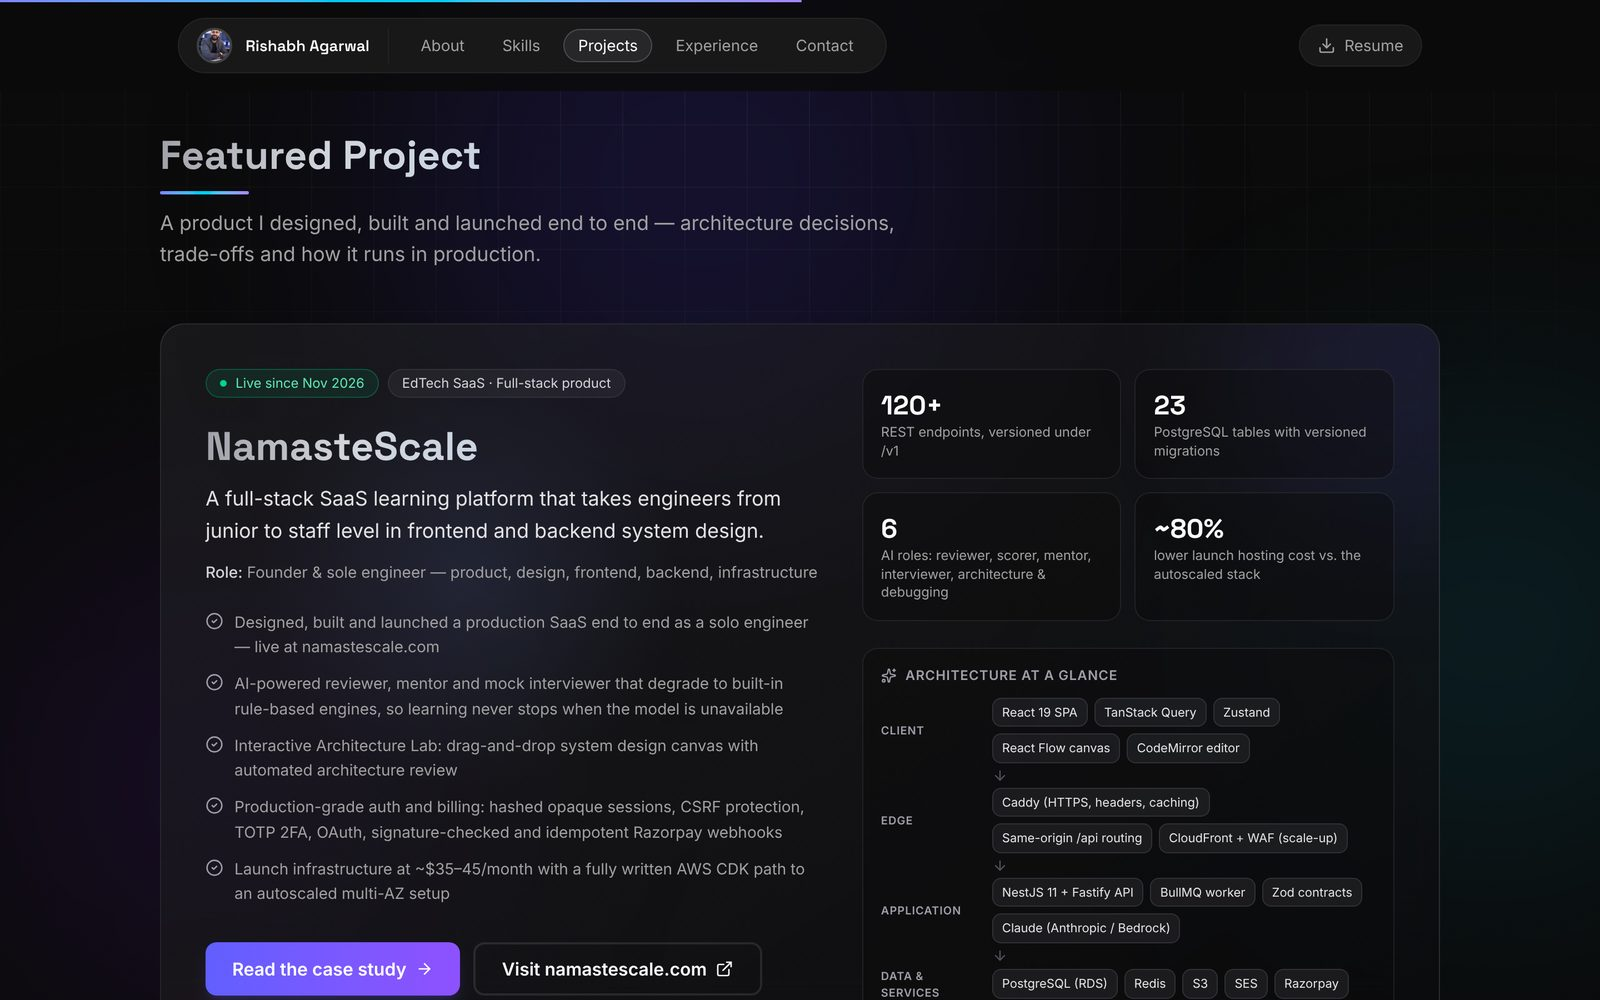
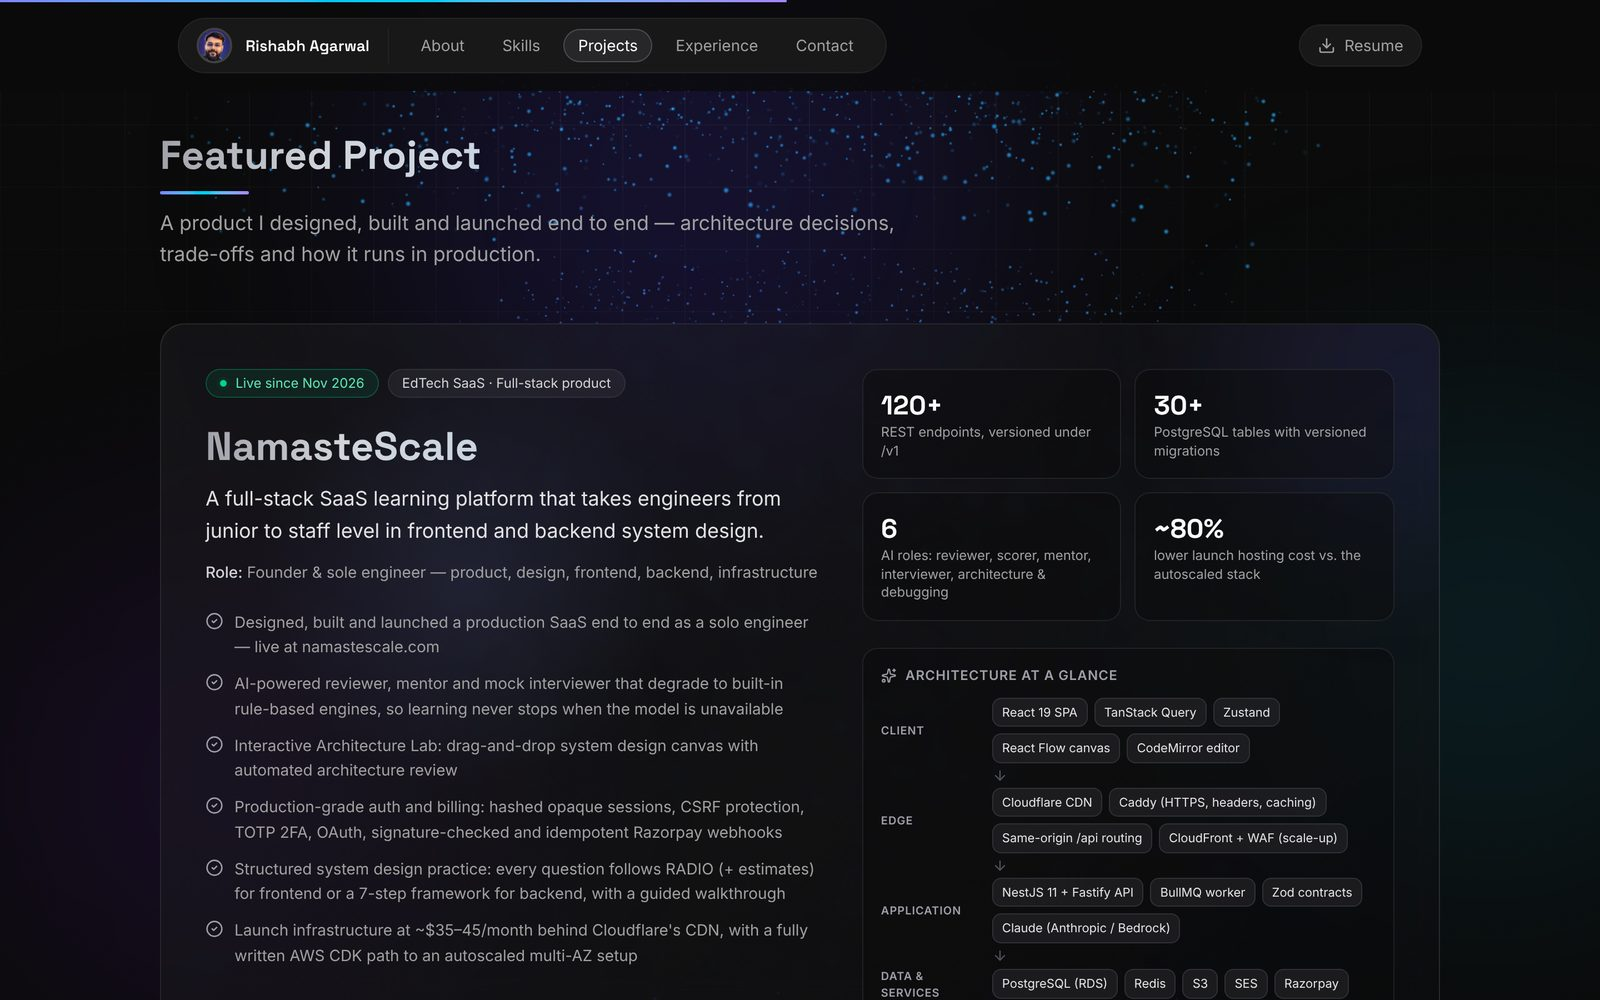
Retouched portrait and NamasteScale details from the current codebase
- New brand-graded portrait (cutout on indigo/cyan network backdrop, rim light,
  desk surface, vignette) at 400/800w, plus a dedicated face-crop nav avatar
- OG image regenerated with the new portrait; README screenshots refreshed
- NamasteScale: Cloudflare CDN, Google/GitHub OIDC login, one device per account,
  RADIO / 7-step system design framework, 30+ tables, Vitest, GitHub Actions,
  webhook-activated checkout; team dashboard removed from roadmap; YouTube link
- Skills aligned with the stack NamasteScale uses (new Backend & Data category)

Claude-Session: https://claude.ai/code/session_012ipjrg5hndmspzufutvoju

diff --git a/src/data/data.ts b/src/data/data.ts
@@ -43,6 +43,7 @@ export interface CaseStudy {
     solutionsImplemented: string[];
     impactMetrics: string[];
     demoLink?: string;
+    youtubeLink?: string;
     repoLink?: string;
     packageLink?: string;
 }
@@ -79,14 +80,18 @@ export const caseStudies: CaseStudy[] = [
             "Redis + BullMQ",
             "Zod (shared contracts)",
             "Claude (Anthropic API / Bedrock)",
+            "OAuth / OIDC (Google, GitHub)",
             "Razorpay",
             "AWS (EC2, RDS, S3, SES, CDK)",
+            "Cloudflare CDN",
             "Docker + Caddy",
+            "Vitest",
+            "GitHub Actions",
         ],
 
         highlights: [
             { value: "120+", label: "REST endpoints, versioned under /v1" },
-            { value: "23", label: "PostgreSQL tables with versioned migrations" },
+            { value: "30+", label: "PostgreSQL tables with versioned migrations" },
             { value: "6", label: "AI roles: reviewer, scorer, mentor, interviewer, architecture & debugging" },
             { value: "~80%", label: "lower launch hosting cost vs. the autoscaled stack" },
         ],
@@ -96,7 +101,8 @@ export const caseStudies: CaseStudy[] = [
             "AI-powered reviewer, mentor and mock interviewer that degrade to built-in rule-based engines, so learning never stops when the model is unavailable",
             "Interactive Architecture Lab: drag-and-drop system design canvas with automated architecture review",
             "Production-grade auth and billing: hashed opaque sessions, CSRF protection, TOTP 2FA, OAuth, signature-checked and idempotent Razorpay webhooks",
-            "Launch infrastructure at ~$35–45/month with a fully written AWS CDK path to an autoscaled multi-AZ setup",
+            "Structured system design practice: every question follows RADIO (+ estimates) for frontend or a 7-step framework for backend, with a guided walkthrough",
+            "Launch infrastructure at ~$35–45/month behind Cloudflare's CDN, with a fully written AWS CDK path to an autoscaled multi-AZ setup",
         ],
 
         shortDescription:
@@ -113,7 +119,7 @@ export const caseStudies: CaseStudy[] = [
 
         architecture: [
             { label: "Client", items: ["React 19 SPA", "TanStack Query", "Zustand", "React Flow canvas", "CodeMirror editor"] },
-            { label: "Edge", items: ["Caddy (HTTPS, headers, caching)", "Same-origin /api routing", "CloudFront + WAF (scale-up)"] },
+            { label: "Edge", items: ["Cloudflare CDN", "Caddy (HTTPS, headers, caching)", "Same-origin /api routing", "CloudFront + WAF (scale-up)"] },
             { label: "Application", items: ["NestJS 11 + Fastify API", "BullMQ worker", "Zod contracts", "Claude (Anthropic / Bedrock)"] },
             { label: "Data & services", items: ["PostgreSQL (RDS)", "Redis", "S3", "SES", "Razorpay"] },
         ],
@@ -122,7 +128,7 @@ export const caseStudies: CaseStudy[] = [
             "Making AI feedback reliable and affordable: per-user rate limits, plan-based allowances and model tiers, and structured outputs that the UI can render safely",
             "Keeping the product usable when a dependency is missing — no model, no payment keys, no email provider — without branching the UI everywhere",
             "Sharing one set of validation schemas, plans and prices between two repositories without drift",
-            "Building secure, first-party authentication (sessions, CSRF, 2FA, OAuth) without a third-party auth service",
+            "Building secure, first-party authentication (sessions, CSRF, 2FA, Google/GitHub OAuth, one active device per account) without a third-party auth service",
             "Handling payments correctly: verifying checkout signatures, processing webhooks exactly once, and applying the single best discount across sales, coupons and referrals",
             "Shipping on a tight launch date while still leaving a clean path from one server to an autoscaled cloud setup",
         ],
@@ -131,6 +137,7 @@ export const caseStudies: CaseStudy[] = [
             "Server state cached and deduplicated with TanStack Query; client state read through narrow Zustand selectors to avoid unnecessary re-renders",
             "React Compiler enabled for automatic memoization across the app",
             "Sessions hashed in PostgreSQL and cached in Redis, so authenticated requests don't hit the database on every call",
+            "Static assets served from Cloudflare's edge cache worldwide; the origin trusts only Cloudflare's IP ranges and reads the real visitor IP",
             "Slow work (emails, image processing, invoices, AI jobs) moved off the request path into a BullMQ worker",
             "Hashed static assets cached for a year at the edge, with index.html revalidated on every deploy",
             "Cheaper, faster model tier on Free and the advanced tier on Pro, chosen per request by the plan service",
@@ -144,6 +151,8 @@ export const caseStudies: CaseStudy[] = [
             "Unhealthy release on the scale-up stack → ECS deployment circuit breaker rolls back automatically",
             "Misconfigured environment → every variable is validated at startup and the process refuses to start with a list of what's missing",
             "Guest progress at sign-in → uploaded once and its XP recomputed on the server, so clients can't award themselves XP",
+            "Signing in on a new device → the previous session is revoked, so one account is active on one device at a time",
+            "Payment confirmed by Razorpay but the browser closed before confirming → the webhook still activates the plan",
         ],
 
         systemDesignHighlights: [
@@ -166,8 +175,8 @@ export const caseStudies: CaseStudy[] = [
         futureEnhancements: [
             "Move to the autoscaled AWS stack (CloudFront, ECS Fargate, Aurora Serverless v2) as traffic grows",
             "Turn on Razorpay live payments for the Pro plan",
-            "Team dashboard for companies to track engineers' progress",
-            "Companion YouTube channel with animated system-design videos and Shorts",
+            "Grow the companion @namastescale YouTube channel with animated system-design videos and Shorts",
+            "AI help chatbot inside the app (currently shown as coming soon)",
             "Community features and leaderboards",
         ],
 
@@ -176,6 +185,8 @@ export const caseStudies: CaseStudy[] = [
             "AI reviewer that scores system design answers against a weighted rubric and shows a suggested answer on demand",
             "AI mock interviewer with follow-up questions, scored once at the end of the session",
             "AI-assisted debugging round modelled on AI-allowed interviews: find bugs in a codebase with limited AI help, judged on results and prompt quality",
+            "Step-based system design content: RADIO + estimates for frontend, a 7-step framework for backend, with a walkthrough tab for every question",
+            "Sign in with Google or GitHub (OpenID Connect), one account per email",
             "Architecture Lab built on React Flow with a rule-based architecture review",
             "Account security: password change, TOTP 2FA (required for admins in production), session list and revoke, OAuth connect/disconnect, data export and account deletion",
             "Growth engine: festival sales, coupon codes and referral rewards, with the server always applying the single best discount",
@@ -184,22 +195,24 @@ export const caseStudies: CaseStudy[] = [
 
         impactMetrics: [
             "Launched to production at namastescale.com in November 2026",
-            "120+ REST endpoints and 23 database tables behind a single, consistent API contract",
+            "120+ REST endpoints and 30+ database tables behind a single, consistent API contract",
             "~80% lower launch hosting cost (~$35–45/month vs ~$200+/month) without giving up a path to scale",
             "AI features stay usable at zero model cost through rule-based fallbacks",
         ],
 
         demoLink: "https://namastescale.com",
+        youtubeLink: "https://www.youtube.com/@namastescale",
     },
 ];
 
 export const skills: Record<string, string[]> = {
     'Languages': ['JavaScript (ES6+)', 'TypeScript', 'HTML5', 'CSS3', 'SQL'],
-    'Frameworks & Libraries': ['React', 'Next.js', 'Angular', 'Redux Toolkit', 'RTK Query', 'RxJS'],
+    'Frameworks & Libraries': ['React 19', 'Next.js', 'Angular', 'Redux Toolkit', 'RTK Query', 'TanStack Query', 'Zustand', 'RxJS', 'React Flow', 'three.js'],
     'UI & Design Systems': ['Tailwind CSS', 'Material UI', 'Bootstrap', 'Responsive Design', 'Accessibility (a11y)'],
-    'Architecture & Patterns': ['Modular Architecture', 'Component-Driven Development', 'State Management Patterns', 'REST APIs'],
-    'Security & Quality': ['RBAC', 'OAuth / JWT Auth', 'Jest', 'React Testing Library', 'Performance Optimization'],
-    'Tools & Infrastructure': ['Git', 'Vite', 'Webpack', 'Docker', 'Node.js / Express', 'NestJS', 'PostgreSQL', 'Redis / BullMQ', 'AWS (S3, CloudFront, Lambda)', 'CI/CD Pipelines']
+    'Architecture & Patterns': ['Frontend System Design (RADIO)', 'Modular Architecture', 'SOLID / Dependency Inversion', 'Component-Driven Development', 'State Management Patterns', 'REST API Design', 'Schema-shared Contracts (Zod)'],
+    'Security & Quality': ['RBAC', 'OAuth / OIDC', 'Session Auth + CSRF', 'TOTP 2FA', 'Jest', 'Vitest', 'React Testing Library', 'Performance Optimization'],
+    'Backend & Data': ['Node.js / Express', 'NestJS + Fastify', 'PostgreSQL', 'Drizzle ORM', 'Redis', 'BullMQ', 'MongoDB', 'Razorpay', 'LLM integration (Claude)'],
+    'Tools & Infrastructure': ['Git', 'Vite', 'Webpack', 'Docker', 'Caddy', 'AWS (EC2, RDS, S3, SES, CloudFront, CDK)', 'Cloudflare', 'GitHub Actions CI/CD']
 };
 
 export const experience: Experience[] = [

diff --git a/src/components/CaseStudies.tsx b/src/components/CaseStudies.tsx
@@ -1,5 +1,5 @@
 import { motion } from 'motion/react';
-import { ArrowRight, CheckCircle2, ExternalLink, Sparkles } from 'lucide-react';
+import { ArrowRight, CheckCircle2, ExternalLink, Sparkles, Youtube } from 'lucide-react';
 import { Link } from 'react-router';
 import { SectionHeader } from './ui/SectionHeader';
 import { GradientText } from './ui/GradientText';
@@ -87,7 +87,7 @@ function FeaturedProject({ project }: { project: CaseStudy }) {
                         ))}
                     </ul>
 
-                    <div className="flex flex-col sm:flex-row gap-3 pt-2">
+                    <div className="flex flex-col sm:flex-row sm:flex-wrap gap-3 pt-2">
                         <Link to={`/case-study/${project.id}`} className="group/btn inline-block rounded-lg">
                             <GradientButton as="span">
                                 <span>Read the case study</span>
@@ -104,6 +104,19 @@ function FeaturedProject({ project }: { project: CaseStudy }) {
                                 icon={<ExternalLink className="w-4 h-4" aria-hidden="true" />}
                             >
                                 Visit {new URL(project.demoLink).hostname}
+                            </GradientButton>
+                        )}
+                        {project.youtubeLink && (
+                            <GradientButton
+                                as="a"
+                                href={project.youtubeLink}
+                                target="_blank"
+                                rel="noopener noreferrer"
+                                variant="outline"
+                                icon={<Youtube className="w-4 h-4" aria-hidden="true" />}
+                                iconPosition="left"
+                            >
+                                YouTube
                             </GradientButton>
                         )}
                     </div>

diff --git a/src/components/common/ProjectLinks.tsx b/src/components/common/ProjectLinks.tsx
@@ -2,6 +2,7 @@ import {
     ExternalLink,
     Github,
     Package,
+    Youtube,
 } from "lucide-react";
 
 interface ProjectLinksProps {
@@ -10,6 +11,7 @@ interface ProjectLinksProps {
     repoLink?: string;
     packageLink?: string;
     demoLink?: string;
+    youtubeLink?: string;
     size?: number;
     className?: string;
 }
@@ -19,6 +21,7 @@ export default function ProjectLinks({
     repoLink,
     packageLink,
     demoLink,
+    youtubeLink,
     size = 18,
     className = "",
 }: ProjectLinksProps) {
@@ -63,6 +66,18 @@ export default function ProjectLinks({
                     className={`${iconClass} hover:text-sky-400`}
                 >
                     <ExternalLink size={size} aria-hidden="true" />
+                </a>
+            )}
+            {youtubeLink && (
+                <a
+                    href={youtubeLink}
+                    target="_blank"
+                    rel="noopener noreferrer"
+                    aria-label={label("YouTube channel")}
+                    title="YouTube channel"
+                    className={`${iconClass} hover:text-red-400`}
+                >
+                    <Youtube size={size} aria-hidden="true" />
                 </a>
             )}
         </div>

diff --git a/src/App.tsx b/src/App.tsx
@@ -25,7 +25,7 @@ const NotFound = lazy(() => import('./components/NotFound'));
 // One shared WebGL particle cloud behind every page; morphs per section (see three/SceneCanvas.tsx)
 const SceneCanvas = lazy(() => import('./components/three/SceneCanvas'));
 
-const MARQUEE = ['React', 'TypeScript', 'Angular', 'Next.js', 'Redux Toolkit', 'RxJS', 'Tailwind CSS', 'Node.js', 'NestJS', 'PostgreSQL', 'AWS', 'Web Performance', 'Accessibility', 'System Design'];
+const MARQUEE = ['React 19', 'TypeScript', 'Angular', 'Next.js', 'TanStack Query', 'Zustand', 'Redux Toolkit', 'RxJS', 'Tailwind CSS', 'three.js', 'NestJS', 'PostgreSQL', 'Redis', 'AWS', 'Cloudflare', 'Web Performance', 'Accessibility', 'System Design'];
 
 function HomePage() {
   return (

diff --git a/src/components/Skills.tsx b/src/components/Skills.tsx
@@ -1,5 +1,5 @@
 import { skills } from "@/data/data";
-import { Blocks, Code2, Palette, Shield, Sparkles, Wrench, Zap, type LucideIcon } from "lucide-react"
+import { Blocks, Code2, Palette, Server, Shield, Sparkles, Wrench, Zap, type LucideIcon } from "lucide-react"
 import { memo, useMemo, useState } from "react"
 import { SectionHeader } from "./ui/SectionHeader";
 import { AnimatePresence, motion } from "motion/react";
@@ -12,6 +12,7 @@ const categoryIcons: Record<string, LucideIcon> = {
     'UI & Design Systems': Palette,
     'Architecture & Patterns': Wrench,
     'Security & Quality': Shield,
+    'Backend & Data': Server,
     'Tools & Infrastructure': Zap
 }
 

diff --git a/src/components/Hero.tsx b/src/components/Hero.tsx
@@ -231,8 +231,8 @@ const Hero = () => {
                             >
                                 NamasteScale
                             </Link>
-                            , a system design learning platform with AI-reviewed answers and mock interviews — React 19,
-                            NestJS, PostgreSQL and AWS.
+                            , a system design learning platform with AI-reviewed answers, mock interviews and an
+                            AI-assisted debugging round — React 19, NestJS, PostgreSQL, Redis and AWS behind Cloudflare.
                         </p>
                     </div>
                 </motion.div>

diff --git a/src/components/CaseStudy.tsx b/src/components/CaseStudy.tsx
@@ -81,6 +81,7 @@ export default function CaseStudy() {
                                     repoLink={caseStudy.repoLink}
                                     packageLink={caseStudy.packageLink}
                                     demoLink={caseStudy.demoLink}
+                                    youtubeLink={caseStudy.youtubeLink}
                                     size={22}
                                 />
                             </div>

diff --git a/src/components/Navigation.tsx b/src/components/Navigation.tsx
@@ -4,7 +4,7 @@ import { Download, Menu, X } from 'lucide-react';
 import { useScrollSpy } from '@/hooks/useScrollSpy';
 import { useSmoothScroll } from '@/hooks/useSmoothScroll';
 import { ImageWithFallback } from './ImageWithFallback';
-import avatarImg from '@/assets/portfolio-400.webp';
+import avatarImg from '@/assets/avatar-256.webp';
 import { profile } from '@/data/data';
 
 const navigationLinks = [
